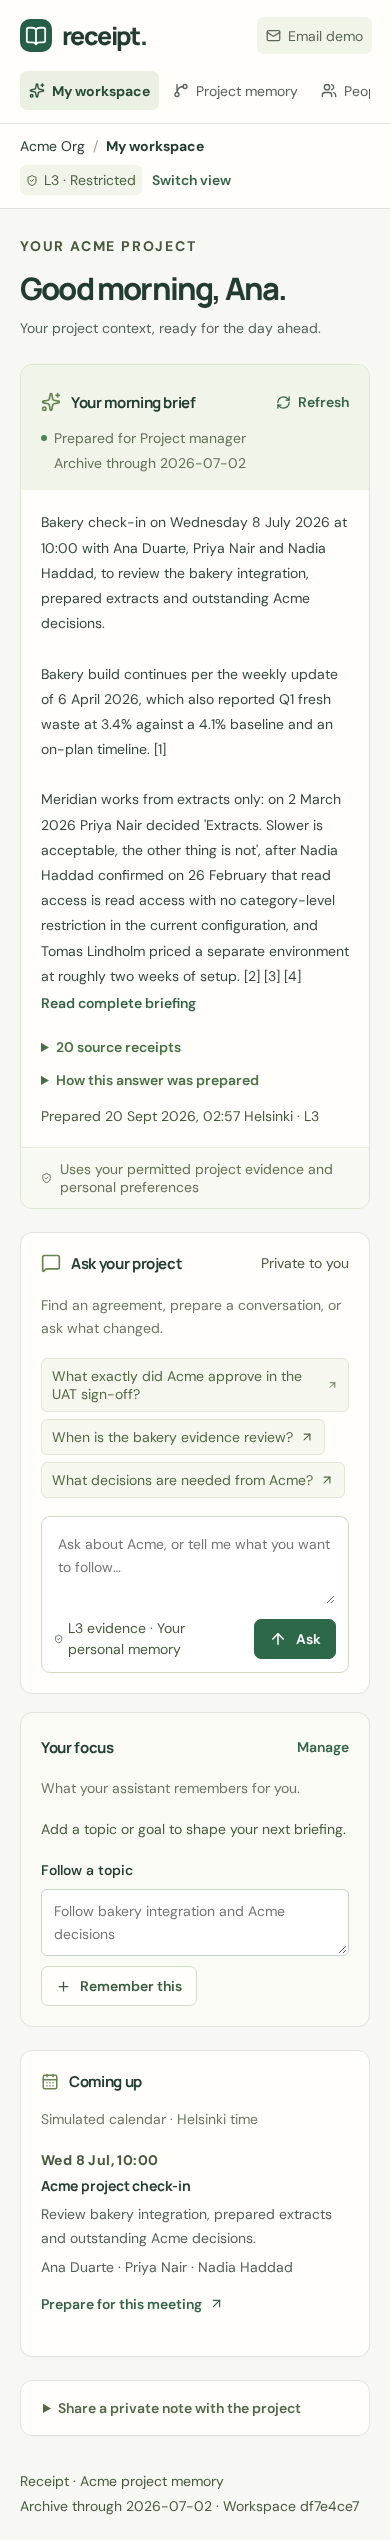
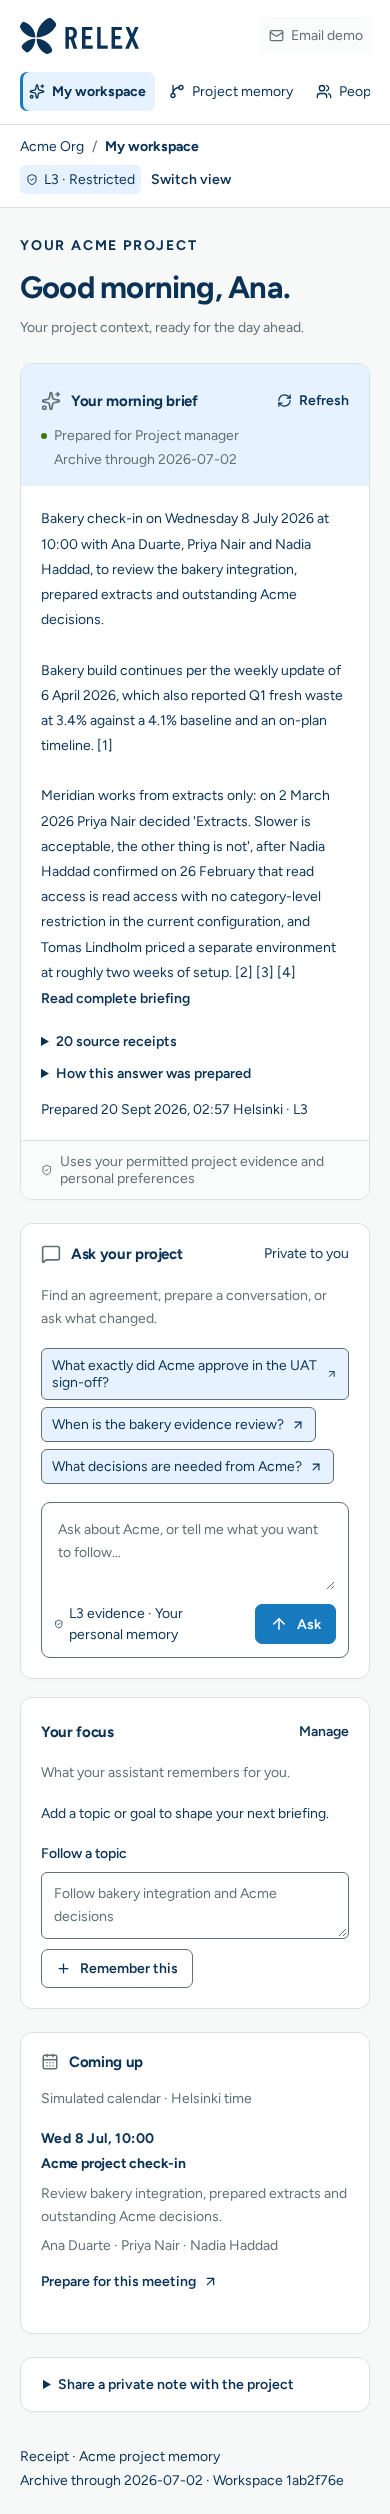
Record branded release validation and public screenshots

diff --git a/docs/VALIDATION.md b/docs/VALIDATION.md
@@ -95,3 +95,5 @@ The expanded Chromium review covered 23 view/state combinations: workspace, memo
 Figtree loaded locally. The logo matched the official reference SVG byte-for-byte. Keyboard focus produced a 3px navy input outline and a 4px navy graph-source outline. Replaying a previously saved share response into the isolated browser exercised the real PNG export without a new inference call: the 1200 × 2468 image downloaded successfully, with white background, navy text and Figtree wrapping. This export check covers rendering and download behavior; existing workflow tests cover source-sharing boundaries.
 
 Desktop/mobile workspace, graph, claims, source, email, erasure and submission captures were visually reviewed after the checks. Raw audit reports, the exported PNG and review scripts are in the workspace’s `artifacts/relex_brand/implementation/` directory.
+
+The branded code was committed as `b892aac` and published through the existing atomic release script to `2026-09-20T00-59-31-037Z`. The user service is active and the public HTTPS endpoint returned HTTP 200 in 1.321 seconds. Fresh public-browser captures confirmed the official logo loaded, Figtree was active and the page background was `#F7F8F8`; desktop/mobile navigation produced no JavaScript errors or mobile page overflow. Updated captures are in `docs/screenshots/`.

diff --git a/AGENTS.md b/AGENTS.md
@@ -15,7 +15,8 @@ src/lib/components/ Evidence presentation, Figtree PNG/text cards, status badges
 src/app.css RELEX semantic palette, shared controls, responsive layout and locally bundled Figtree typography.
 src/lib/assets/relex_logo.svg Official RELEX RGB wordmark; orig: relex-primary-logo-RGB-vector.svg.
 src/lib/assets/favicon.png Official RELEX symbol; orig: cropped-relex-mark-square-192x192.png.
-docs/BRANDING.md Color roles, font attribution and isolated review server on port 41851.
+docs/BRANDING.md Color roles, font/logo attribution and isolated review server on port 41851.
+docs/screenshots/ Reviewed public RELEX-branded desktop/mobile, graph/focus, claims, source, email, people, erasure and submission views.
 docs/FIGTREE_LICENSE.txt Figtree OFL-1.1 license; orig: @fontsource-variable/figtree/LICENSE.
 tests/ Deterministic persistence, access, erasure, delivery and private-context tests; browser workflows and accessibility.
 scripts/ Baseline preparation, live capability/practice evaluation, atomic deployment, startup and screenshot capture.
